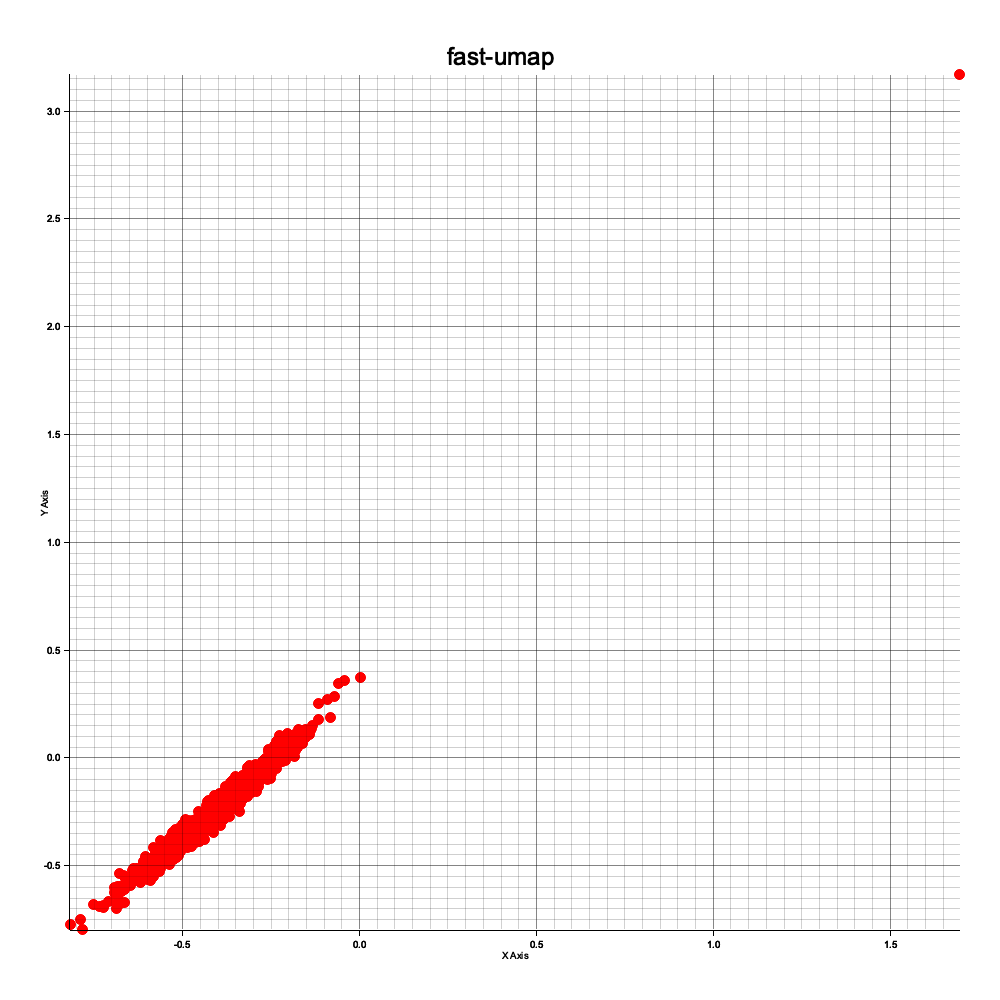
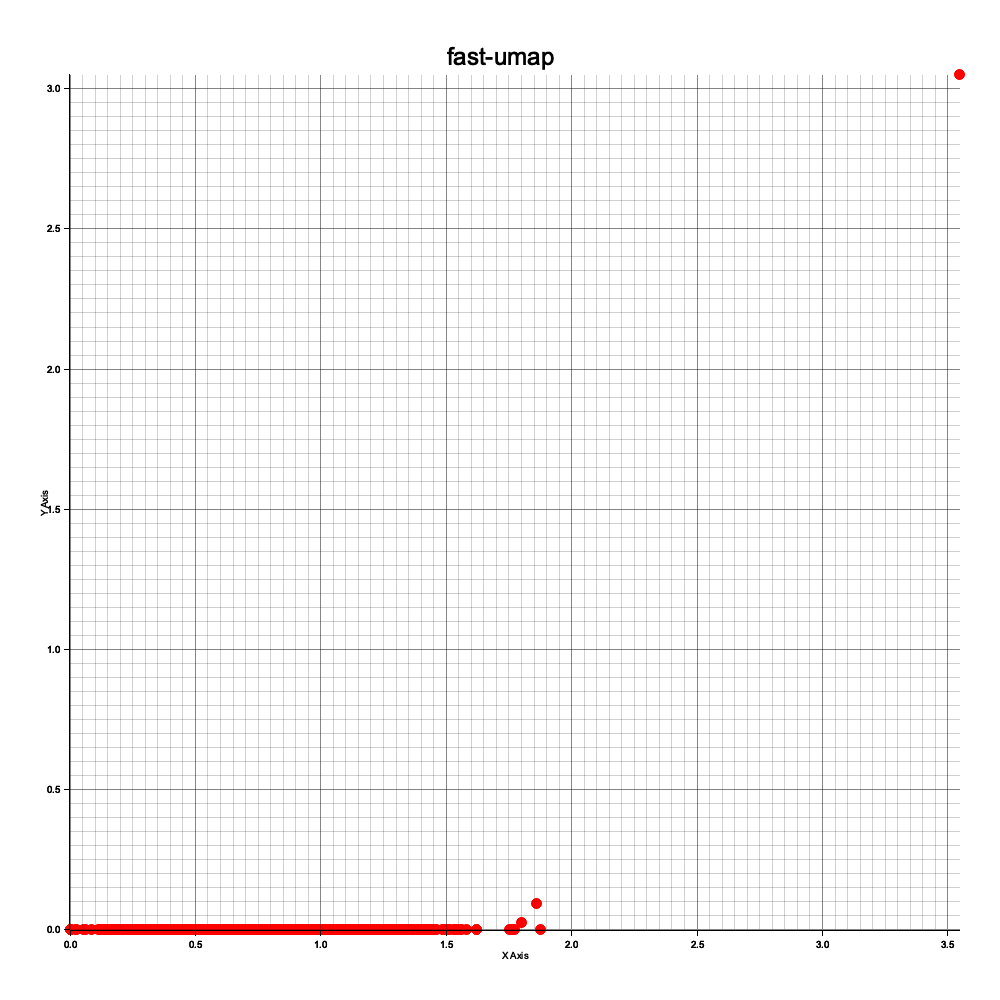
added multiple dynamic layers and sizes in the model

Changed region(s): [[0.031, 0.062, 0.961, 0.961]]

diff --git a/src/model.rs b/src/model.rs
@@ -2,110 +2,108 @@ use burn::prelude::*;
 use nn::{Linear, LinearConfig, Relu};
 use serde::{Deserialize, Serialize};
 
-/// A neural network model representing the UMAP architecture, consisting of four linear layers and ReLU activations
+/// A neural network model with a configurable number of layers and dynamic sizes.
+/// The model can have multiple hidden layers, with each layer having its own configurable size.
 ///
 /// # Arguments
 /// * `B` - The backend type for tensor operations (e.g., `AutodiffBackend`)
 #[derive(Module, Debug)]
 pub struct UMAPModel<B: Backend> {
-    linear1: Linear<B>, // First linear layer
-    linear2: Linear<B>, // Second linear layer
-    linear3: Linear<B>, // Third linear layer
-    linear4: Linear<B>, // Fourth linear layer
-    activation: Relu,   // ReLU activation function
+    layers: Vec<Linear<B>>, // Vector to store dynamic layers
+    activation: Relu,       // ReLU activation function
 }
 
 impl<B: Backend> UMAPModel<B> {
-    /// Creates a new instance of `UMAPModel` with the specified configuration and device
+    /// Creates a new instance of `UMAPModel` with the specified configuration and device.
     ///
     /// # Arguments
-    /// * `config` - Configuration struct containing the input size, hidden size, and output size
-    /// * `device` - The device on which the model should be initialized (e.g., CPU or GPU)
+    /// * `config` - Configuration struct containing the input size, hidden layer sizes, and output size.
+    /// * `device` - The device on which the model should be initialized (e.g., CPU or GPU).
     ///
     /// # Returns
-    /// A new `UMAPModel` instance initialized with the provided configuration
+    /// A new `UMAPModel` instance initialized with the provided configuration.
     pub fn new(config: &UMAPModelConfig, device: &Device<B>) -> Self {
-        // Initialize the first linear layer with the input size and hidden size
-        let linear1 = LinearConfig::new(config.input_size, config.hidden_size)
-            .with_bias(true)
-            .init(device);
-        let linear2 = LinearConfig::new(config.hidden_size, config.hidden_size)
-            .with_bias(true)
-            .init(device);
-        let linear3 = LinearConfig::new(config.hidden_size, config.hidden_size)
-            .with_bias(true)
-            .init(device);
-        let linear4 = LinearConfig::new(config.hidden_size, config.output_size)
-            .with_bias(true)
-            .init(device);
+        // Build the layers dynamically based on the hidden layer sizes.
+        let mut layers = Vec::new();
+        let mut input_size = config.input_size;
+
+        // Create hidden layers
+        for &hidden_size in &config.hidden_sizes {
+            layers.push(
+                LinearConfig::new(input_size, hidden_size)
+                    .with_bias(true)
+                    .init(device),
+            );
+            input_size = hidden_size; // Update input size for the next layer
+        }
+
+        // Add the output layer
+        layers.push(
+            LinearConfig::new(input_size, config.output_size)
+                .with_bias(true)
+                .init(device),
+        );
 
         // Initialize ReLU activation function
         let activation = Relu::new();
 
         // Return the UMAPModel with the initialized layers
-        UMAPModel {
-            linear1,
-            linear2,
-            linear3,
-            linear4,
-            activation,
-        }
+        UMAPModel { layers, activation }
     }
 
-    /// Perform a forward pass through the model
+    /// Perform a forward pass through the model.
     ///
     /// # Arguments
-    /// * `input` - A 2D tensor representing the input data, with shape (n_samples, n_features)
+    /// * `input` - A 2D tensor representing the input data, with shape (n_samples, n_features).
     ///
     /// # Returns
-    /// A 2D tensor representing the output after passing through all the layers and activations
-    ///
-    /// The input passes sequentially through the four linear layers, with ReLU activations applied between each layer.
+    /// A 2D tensor representing the output after passing through all the layers and activations.
     pub fn forward(&self, input: Tensor<B, 2>) -> Tensor<B, 2> {
-        let x = self.linear1.forward(input); // First linear transformation
-        let x = self.activation.forward(x); // Apply ReLU
-        let x = self.linear2.forward(x); // Second linear transformation
-        let x = self.activation.forward(x); // Apply ReLU
-        let x = self.linear3.forward(x); // Third linear transformation
-        let x = self.activation.forward(x); // Apply ReLU
-        let x = self.linear4.forward(x); // Fourth linear transformation
+        let mut x = input;
+
+        // Forward pass through each layer with activation
+        for layer in &self.layers {
+            x = layer.forward(x); // Apply linear transformation
+            x = self.activation.forward(x); // Apply ReLU activation
+        }
+
         x
     }
 }
 
-/// Configuration structure for creating a `UMAPModel`
+/// Configuration structure for creating a `UMAPModel`.
 ///
 /// # Fields
-/// * `input_size` - Number of input features
-/// * `hidden_size` - Size of the hidden layers
-/// * `output_size` - Number of output features
+/// * `input_size` - Number of input features.
+/// * `hidden_sizes` - Vector of sizes for the hidden layers.
+/// * `output_size` - Number of output features.
 #[derive(Debug, Clone, Serialize, Deserialize)]
 pub struct UMAPModelConfig {
-    pub input_size: usize,  // Number of input features
-    pub hidden_size: usize, // Size of the hidden layer
-    pub output_size: usize, // Number of output features
+    pub input_size: usize,        // Number of input features
+    pub hidden_sizes: Vec<usize>, // Sizes of hidden layers
+    pub output_size: usize,       // Number of output features
 }
 
 impl UMAPModelConfig {
-    /// Creates a new builder for the `UMAPModelConfig`
+    /// Creates a new builder for the `UMAPModelConfig`.
     ///
     /// # Returns
-    /// A new `UMAPModelConfigBuilder` to configure the model
+    /// A new `UMAPModelConfigBuilder` to configure the model.
     pub fn builder() -> UMAPModelConfigBuilder {
         UMAPModelConfigBuilder::default()
     }
 }
 
-/// Builder pattern for the `UMAPModelConfig` struct
+/// Builder pattern for the `UMAPModelConfig` struct.
 ///
 /// # Fields
-/// * `input_size` - Option for the number of input features
-/// * `hidden_size` - Option for the size of the hidden layers
-/// * `output_size` - Option for the number of output features
+/// * `input_size` - Option for the number of input features.
+/// * `hidden_sizes` - Option for the sizes of the hidden layers.
+/// * `output_size` - Option for the number of output features.
 #[derive(Debug, Clone)]
 pub struct UMAPModelConfigBuilder {
     input_size: Option<usize>,
-    hidden_size: Option<usize>,
+    hidden_sizes: Option<Vec<usize>>,
     output_size: Option<usize>,
 }
 
@@ -113,62 +111,62 @@ impl Default for UMAPModelConfigBuilder {
     fn default() -> Self {
         UMAPModelConfigBuilder {
             input_size: Some(100),
-            hidden_size: Some(100),
+            hidden_sizes: Some(vec![100, 100, 100]), // Default to 3 hidden layers of size 100
             output_size: Some(2),
         }
     }
 }
 
 impl UMAPModelConfigBuilder {
-    /// Set the input size for the model
+    /// Set the input size for the model.
     ///
     /// # Arguments
-    /// * `input_size` - The number of input features
+    /// * `input_size` - The number of input features.
     ///
     /// # Returns
-    /// The updated `UMAPModelConfigBuilder` with the specified input size
+    /// The updated `UMAPModelConfigBuilder` with the specified input size.
     pub fn input_size(mut self, input_size: usize) -> Self {
         self.input_size = Some(input_size);
         self
     }
 
-    /// Set the hidden layer size for the model
+    /// Set the hidden layer sizes for the model.
     ///
     /// # Arguments
-    /// * `hidden_size` - The size of the hidden layers
+    /// * `hidden_sizes` - The sizes of the hidden layers.
     ///
     /// # Returns
-    /// The updated `UMAPModelConfigBuilder` with the specified hidden size
-    pub fn hidden_size(mut self, hidden_size: usize) -> Self {
-        self.hidden_size = Some(hidden_size);
+    /// The updated `UMAPModelConfigBuilder` with the specified hidden sizes.
+    pub fn hidden_sizes(mut self, hidden_sizes: Vec<usize>) -> Self {
+        self.hidden_sizes = Some(hidden_sizes);
         self
     }
 
-    /// Set the output size for the model
+    /// Set the output size for the model.
     ///
     /// # Arguments
-    /// * `output_size` - The number of output features
+    /// * `output_size` - The number of output features.
     ///
     /// # Returns
-    /// The updated `UMAPModelConfigBuilder` with the specified output size
+    /// The updated `UMAPModelConfigBuilder` with the specified output size.
     pub fn output_size(mut self, output_size: usize) -> Self {
         self.output_size = Some(output_size);
         self
     }
 
-    /// Build and return the final `UMAPModelConfig`
+    /// Build and return the final `UMAPModelConfig`.
     ///
     /// # Returns
-    /// A `Result` containing the built `UMAPModelConfig` or an error message if required fields are missing
+    /// A `Result` containing the built `UMAPModelConfig` or an error message if required fields are missing.
     pub fn build(self) -> Result<UMAPModelConfig, String> {
         // Ensure that all required fields are set
         Ok(UMAPModelConfig {
             input_size: self
                 .input_size
                 .ok_or_else(|| "Input size must be set".to_string())?,
-            hidden_size: self
-                .hidden_size
-                .ok_or_else(|| "Hidden size must be set".to_string())?,
+            hidden_sizes: self
+                .hidden_sizes
+                .ok_or_else(|| "Hidden sizes must be set".to_string())?,
             output_size: self
                 .output_size
                 .ok_or_else(|| "Output size must be set".to_string())?,

diff --git a/examples/advanced.rs b/examples/advanced.rs
@@ -17,7 +17,7 @@ fn main() {
     let num_features = 100; // Number of features (dimensions) for each sample
     let k_neighbors = 10; // Number of nearest neighbors for the UMAP algorithm
     let output_size = 2; // Number of output dimensions (e.g., 2D for embeddings)
-    let hidden_size = 100; // Size of the hidden layer in the neural network
+    let hidden_sizes = vec![100, 100, 100]; // Size of the hidden layer in the neural network
     let learning_rate = 0.001; // Learning rate for optimization
     let beta1 = 0.9; // Beta1 parameter for the Adam optimizer
     let beta2 = 0.999; // Beta2 parameter for the Adam optimizer
@@ -39,7 +39,7 @@ fn main() {
     // Configure the UMAP model with the specified input size, hidden layer size, and output size
     let model_config = UMAPModelConfigBuilder::default()
         .input_size(num_features)
-        .hidden_size(hidden_size)
+        .hidden_sizes(hidden_sizes)
         .output_size(output_size)
         .build()
         .unwrap();

diff --git a/src/lib.rs b/src/lib.rs
@@ -43,7 +43,7 @@ impl<B: AutodiffBackend> UMAP<B> {
         let num_samples = data.len();
         let num_features = data[0].len();
         let output_size = 2; // UMAP typically reduces the data to 2 dimensions
-        let hidden_size = 100; // Size of the hidden layers in the model
+        let hidden_sizes = vec![100]; // Size of the hidden layers in the model
         let learning_rate = 0.001; // Learning rate for optimization
         let beta1 = 0.9; // Beta1 parameter for Adam optimizer
         let beta2 = 0.999; // Beta2 parameter for Adam optimizer
@@ -58,7 +58,7 @@ impl<B: AutodiffBackend> UMAP<B> {
         // Build the model configuration
         let model_config = UMAPModelConfigBuilder::default()
             .input_size(num_features)
-            .hidden_size(hidden_size)
+            .hidden_sizes(hidden_sizes)
             .output_size(output_size)
             .build()
             .unwrap();
